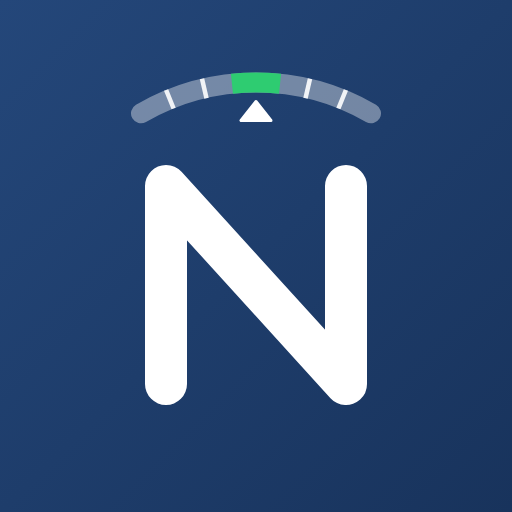
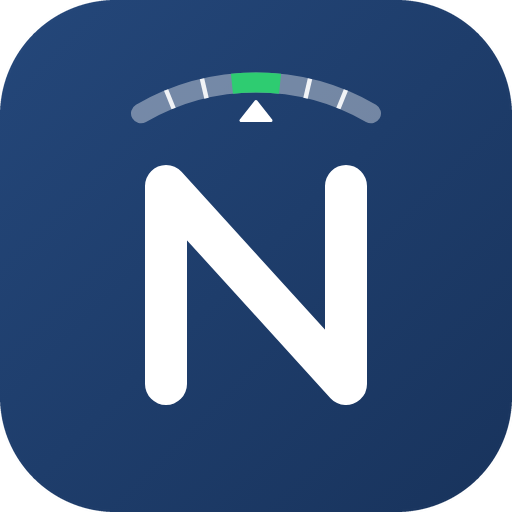
Vitrine: ícone arredondado e destaques novos em português e inglês

diff --git a/README.md b/README.md
@@ -1,5 +1,5 @@
 <p align="center">
-  <img src="imagens/icone.png" width="96" alt="Ícone do Afinador Nogueira">
+  <img src="imagens/icone.png" width="112" alt="Ícone do Afinador Nogueira">
 </p>
 
 <h1 align="center">Afinador Nogueira</h1>
@@ -74,6 +74,7 @@ O app pede o microfone só para ouvir o instrumento. O som é analisado na hora,
 - **Algo não funcionou?** Abra um [Problema](../../issues/new/choose), dizendo a versão do app, o modelo do celular e o instrumento.
 - **Tem uma ideia?** Abra uma [Sugestão](../../issues/new/choose).
 - **Dúvidas:** escreva para **support@goklahlabs.com.br**, ou use o "Fale conosco" nas Preferências do app.
+- **Achou uma falha de segurança?** Não abra issue pública: escreva para **support@goklahlabs.com.br**. Veja o [SECURITY.md](SECURITY.md).
 
 ---
 
@@ -81,12 +82,25 @@ O app pede o microfone só para ouvir o instrumento. O som é analisado na hora,
 
 ## English
 
+![Nogueira Tuner](imagens/en/destaque.png)
+
 **Play a string and Afinador Nogueira tells you whether to tighten or loosen it.**
 
 - **String by string** for guitar, the Brazilian viola caipira, cavaquinho, ukulele, mandolin, banjo, violin and viola, with the most used tunings for each. The tuner recognizes which string you played on its own.
 - **Chromatic** mode for any instrument with a steady pitch, with transposition for B♭, E♭ and F instruments.
 - Light or dark theme, note names in letters or in Do Re Mi, noise filter, adjustable accuracy and reference pitch.
 - Free, no ads, no sign-up and no internet. The sound is analyzed on the phone and never recorded or sent. The app follows your phone's language (Portuguese or English).
+
+<p align="center">
+  <img src="imagens/en/1-cordas.png" width="32%" alt="String by string: the A string a little flat, with Tighten">
+  <img src="imagens/en/2-afinado.png" width="32%" alt="The same string in tune, in green">
+  <img src="imagens/en/3-instrumentos.png" width="32%" alt="Instruments and tunings">
+</p>
+<p align="center">
+  <img src="imagens/en/4-viola.png" width="32%" alt="Viola caipira tunings">
+  <img src="imagens/en/5-cromatico.png" width="32%" alt="Chromatic mode">
+  <img src="imagens/en/6-preferencias.png" width="32%" alt="Preferences">
+</p>
 
 Coming soon to Google Play · [App page](https://goklahlabs.com.br/nogueira) · Problems and ideas: [issues](../../issues/new/choose) · Questions: support@goklahlabs.com.br
 
